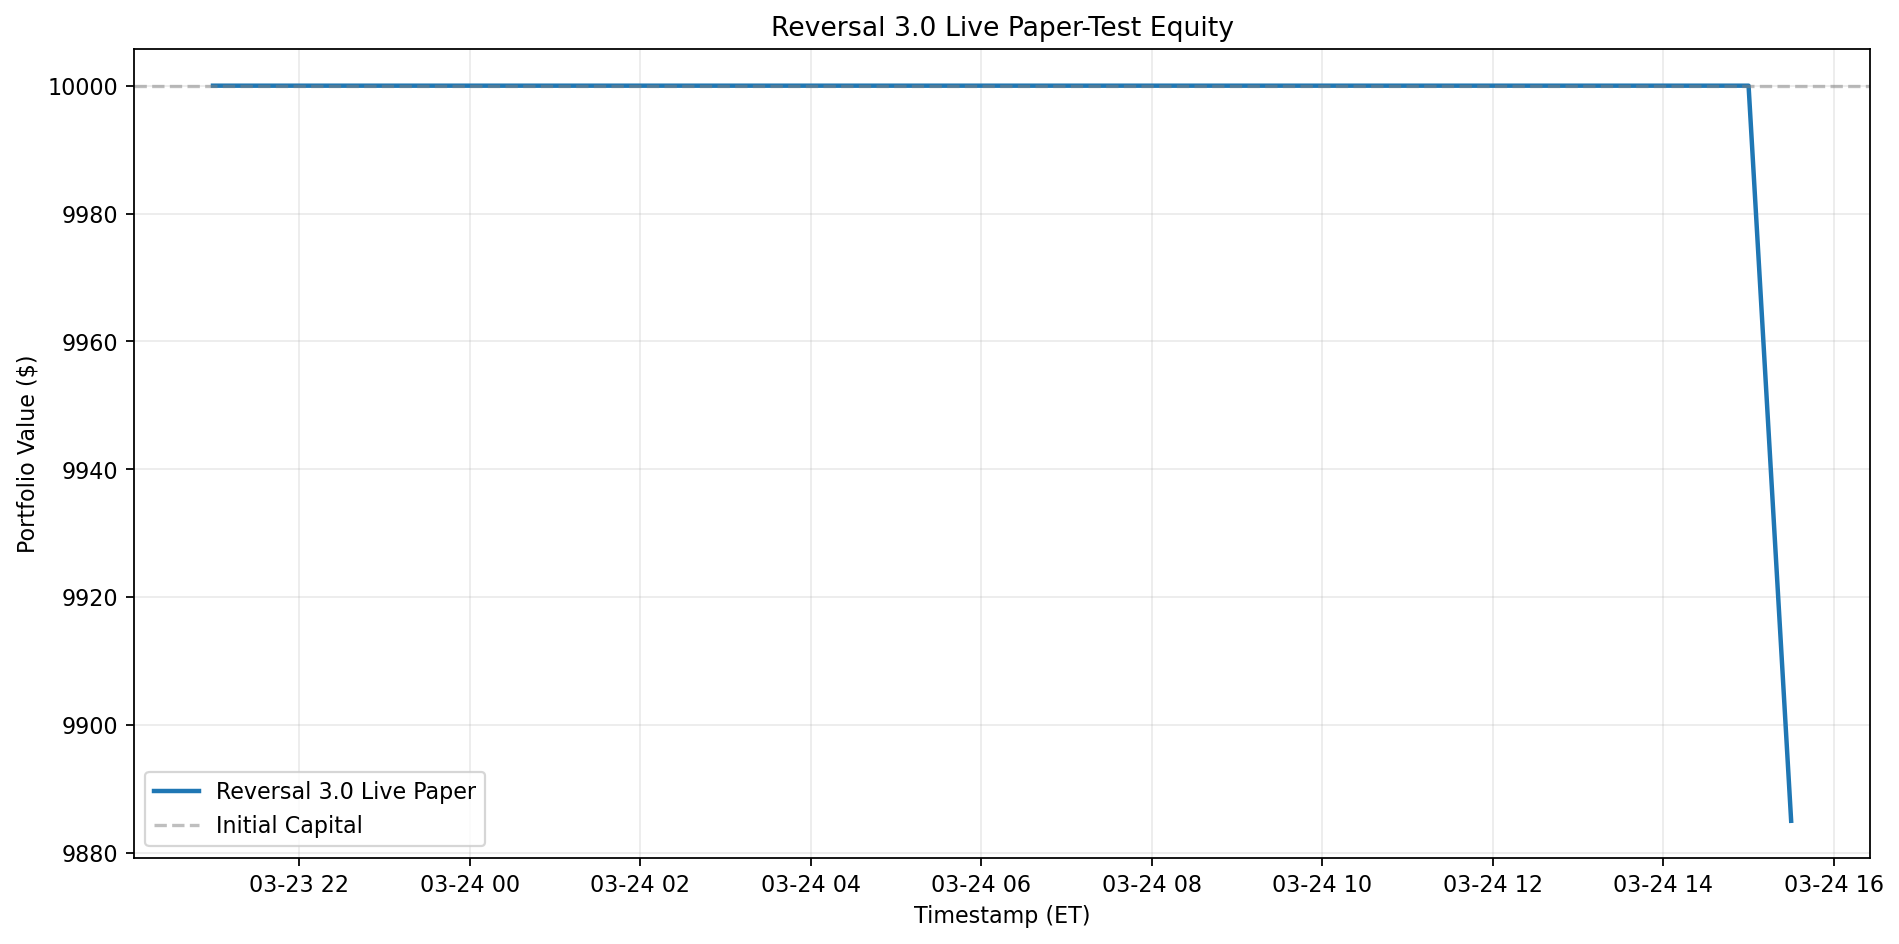
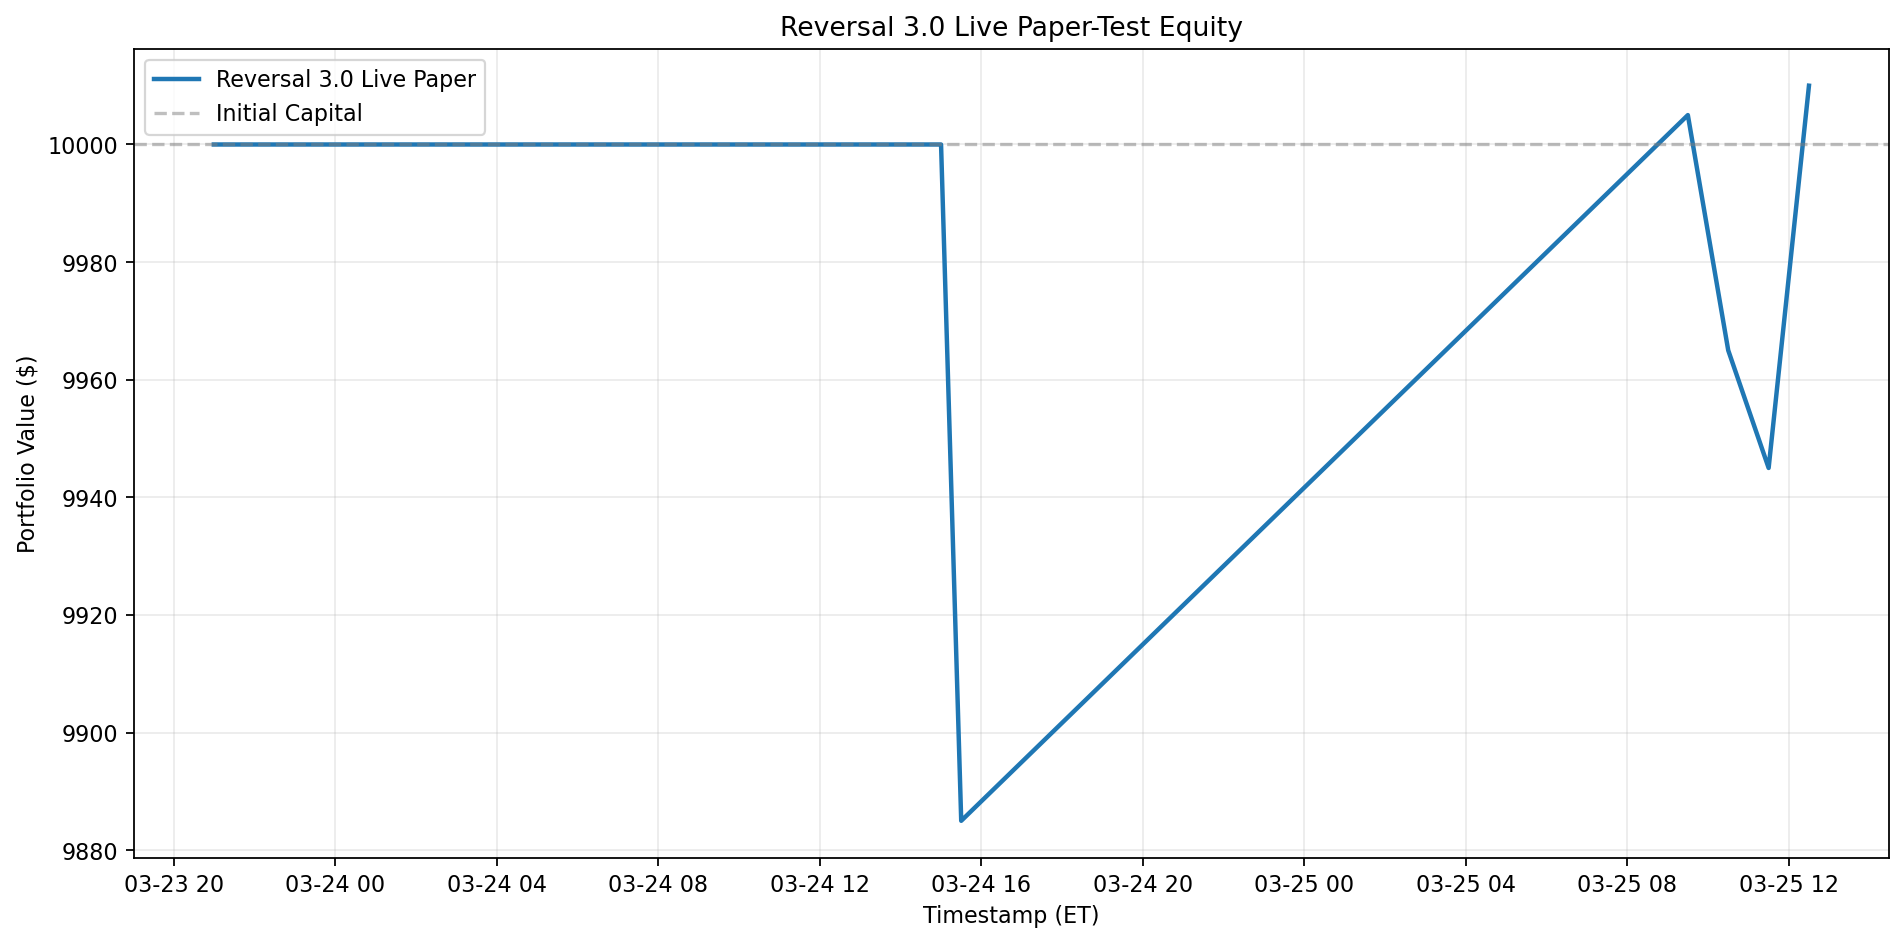
Update Reversal 3.0 live dashboard for 2026-03-25 morning

diff --git a/results/reversal_3_0_live/README.md b/results/reversal_3_0_live/README.md
@@ -1,7 +1,7 @@
 # Reversal 3.0 Live Paper Test
 
-Last updated (ET): `2026-03-24 15:30:03 EDT`
-Last processed slot: `manage_1530`
+Last updated (ET): `2026-03-25 12:30:01 EDT`
+Last processed slot: `manage_1230`
 
 ## Active Configuration
 
@@ -19,19 +19,19 @@ Last processed slot: `manage_1530`
 ## Portfolio Snapshot
 
 - Cash: `$5,455.00`
-- Equity: `$9,885.00`
+- Equity: `$10,010.00`
 - Realized PnL: `$0.00`
-- Unrealized PnL: `$-115.00`
+- Unrealized PnL: `$10.00`
 - Open positions: `1`
 
 ## Open Positions
 
 ```text
 ticker     contract_symbol entry_trade_date  business_days_held  entry_option_price  current_option_price  entry_spot  current_spot  unrealized_pnl  unrealized_return_pct  success_rate  matched_signals  current_drop_pct  entry_iv_pct  current_iv_pct  rolling_sigma_20d_pct
-  AVGO AVGO260515C00320000       2026-03-24                   0               22.72                 22.15      318.55        319.14          -115.0                  -2.53         93.33               30              1.23         48.32           46.95                   39.5
+  AVGO AVGO260515C00320000       2026-03-24                   1               22.72                 22.78      318.55        319.64            10.0                   0.22         93.33               30              1.23         48.32           48.19                   39.5
 ```
 
-## Today's Closed Trades (2026-03-24)
+## Today's Closed Trades (2026-03-25)
 
 _None_
 
@@ -39,24 +39,25 @@ _None_
 
 ```text
 ticker  success_rate_%  matched_signals  current_drop_%  target_rebound_$  target_price  rolling_sigma_20d_%  call_candidate
-   HON          100.00               19            0.56              0.88        222.63                23.58            True
-  AVGO           93.33               30            1.30              2.94        321.25                39.50            True
-  SBUX           93.33               15            1.45              0.96         93.42                29.88            True
-    MU           92.86               28            2.00              5.67        401.92                68.53            True
-  ABNB           92.59               27            1.38              1.28        132.04                36.74            True
-  CTAS           88.89               18            1.15              1.46        180.59                24.07            True
-  NFLX           88.24               17            1.82              1.19         92.87                53.50            True
-  ORLY           86.67               30            0.89              0.55         88.46                20.87            True
-  MNST           82.14               28            0.80              0.41         73.78                28.32            True
-  SHOP           81.25               16            3.81              3.23        119.72                55.40            True
-  IDXX           80.00               35            0.89              3.62        576.96                30.78            True
-  PLTR           80.00               15            3.40              3.83        159.26                47.08            True
+  FANG          100.00               22            0.85              1.17        196.56                29.12            True
+   WDC           97.06               34            1.25              2.63        299.92                74.01            True
+   STX           96.30               27            2.17              6.45        421.45                70.55            True
+  CDNS           90.00               40            0.83              1.66        283.61                27.43            True
+  ROST           90.00               20            0.76              1.16        215.30                32.83            True
+  AMAT           88.89               27            1.44              3.77        372.37                51.46            True
+  KLAC           87.88               33            0.98             10.79       1561.57                48.83            True
+  SNPS           87.50               24            1.83              5.33        413.33                37.59            True
+   BKR           86.67               30            0.66              0.29         63.36                40.11            True
+    MU           86.67               15            3.82             10.56        391.00                67.96            True
+  CRWD           86.05               43            0.62              1.71        392.26                45.29            True
+ CMCSA           84.21               19            1.54              0.31         29.09                27.42            True
 ```
 
 ## Recent Events
 
 ```text
                     timestamp_et         slot   event_type                                                                                                                                                                             detail
+2026-03-25T09:30:01.175501-04:00 data_refresh data_refresh                                                                                                                                                                      {'saved': 97}
 2026-03-24T15:00:05.740108-04:00   entry_1500        entry {"allocated_cash": 4545.0, "contract_symbol": "AVGO260515C00320000", "contracts": 2, "entry_option_price": 22.725, "matched_signals": 30, "success_rate": 93.33, "ticker": "AVGO"}
 2026-03-24T13:30:05.751589-04:00  manage_1330 slot_skipped                                                                                                                                                    {"reason": "already_processed"}
 2026-03-24T13:25:36.643365-04:00 data_refresh data_refresh                                                                                                                                                                      {'saved': 97}

diff --git a/README.md b/README.md
@@ -3,14 +3,14 @@
 <!-- reversal-3.0-live:start -->
 ## Reversal 3.0 Live Paper Test
 
-- Last updated (ET): `2026-03-24 15:30:03 EDT`
-- Equity: `$9,885.00` | Realized: `$0.00` | Unrealized: `$-115.00` | Open positions: `1`
+- Last updated (ET): `2026-03-25 12:30:01 EDT`
+- Equity: `$10,010.00` | Realized: `$0.00` | Unrealized: `$10.00` | Open positions: `1`
 - Today closed trades: `0`
-- Current slot: `manage_1530`
+- Current slot: `manage_1230`
 
 ```text
 ticker     contract_symbol  current_option_price  unrealized_pnl  unrealized_return_pct  business_days_held
-  AVGO AVGO260515C00320000                 22.15          -115.0                  -2.53                   0
+  AVGO AVGO260515C00320000                 22.78            10.0                   0.22                   1
 ```
 
 ![Reversal 3.0 Live Equity](assets/reversal_3_0_live_equity.png)
